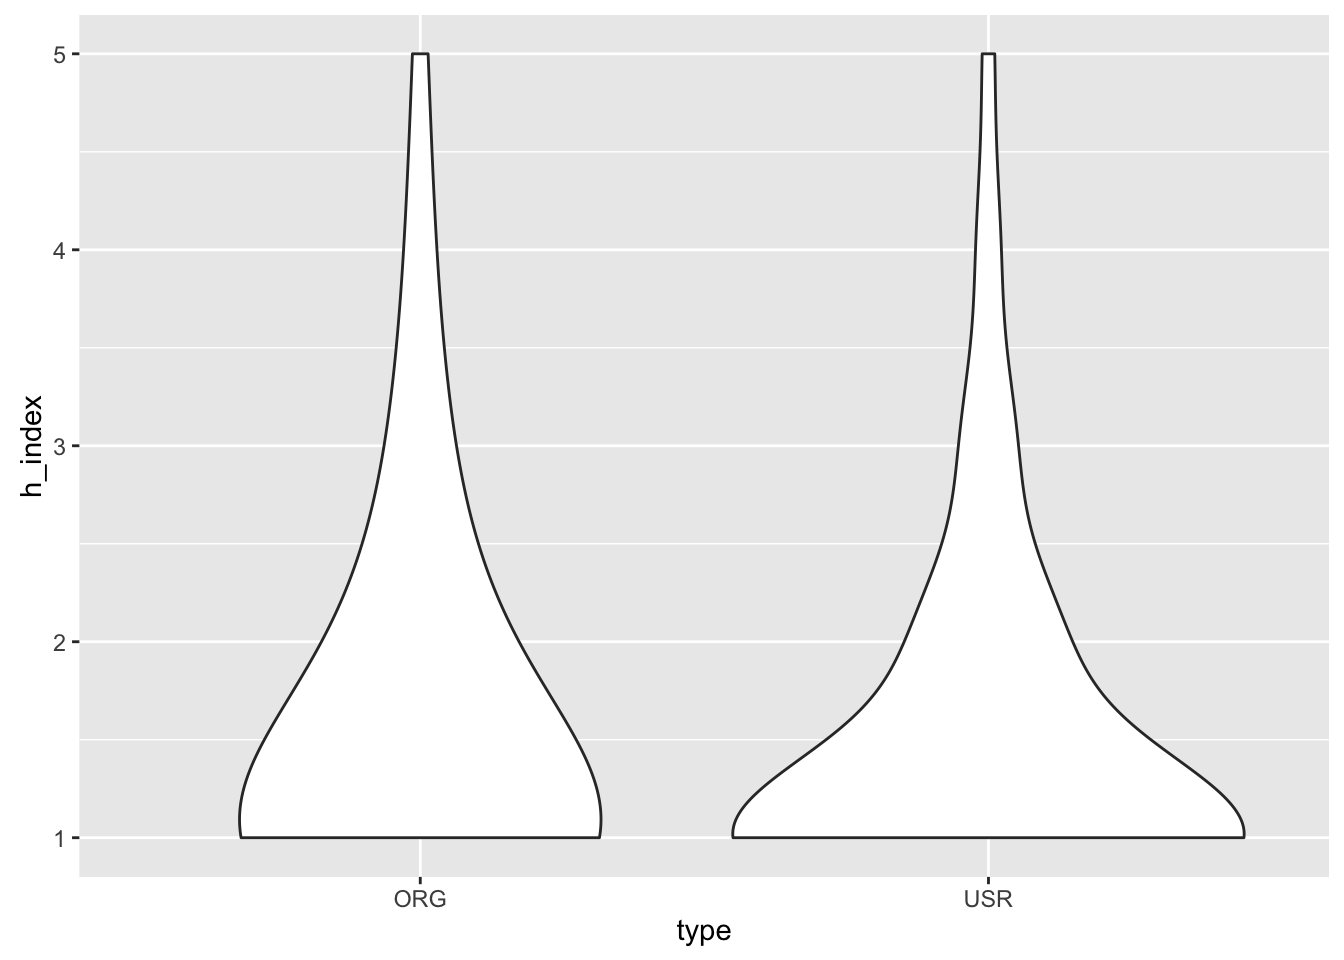
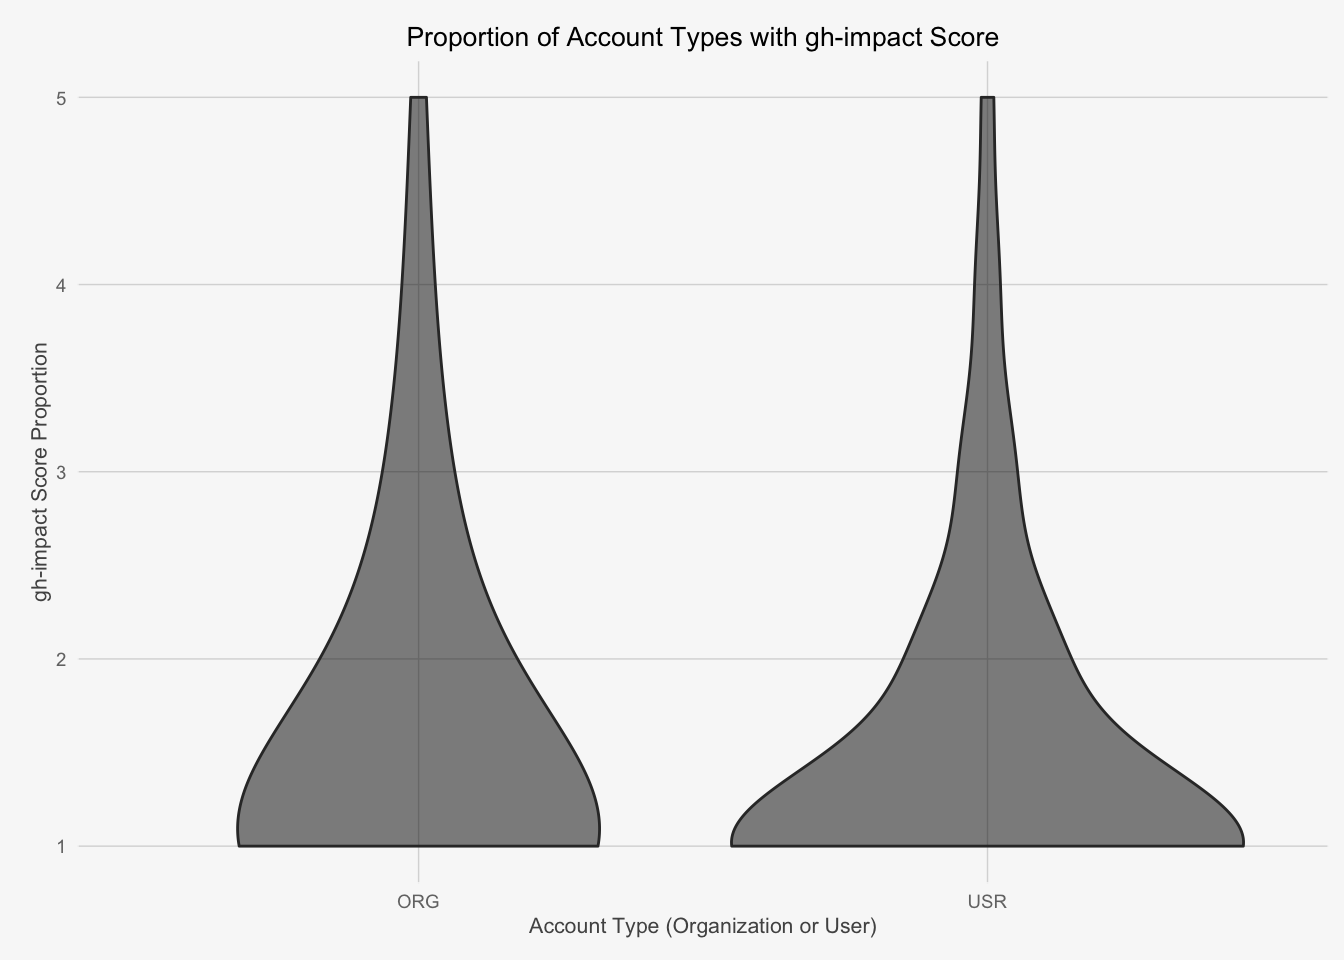
improved aesthetic of plots, added labels, some plots are log transformed

diff --git a/_js/90_percentiles.js b/_js/90_percentiles.js
@@ -1,5 +1,9 @@
+/*
+Ian Dennis Miller
+*/
+
 var percentiles = [
-    [
+    [ // individuals
         0.0000000,
         0.0000000,
         0.6885959,
@@ -17,7 +21,7 @@ var percentiles = [
         0.9986461,
         0.9989227
     ],
-    [
+    [ // organizations
         0.0000000,
         0.0000000,
         0.6473897,

diff --git a/Todo.md b/Todo.md
@@ -35,7 +35,7 @@
 - [x] display account type on report
 - [x] report percentiles corresponding to scores based on a table lookup
 - [x] arrange report as a table or something
-- [ ] percentiles for organizations
+- [x] percentiles for organizations
 - [ ] use github API to retrieve other details about the user
 
 ## Analysis
@@ -43,13 +43,14 @@
 - [x] density plot of scores to answer question: how do I compare?
 - [x] is there a substantial difference between individuals and organizations?
 - [x] who/which are the top users and organizations?
-- [ ] improve aesthetic for plots
-- [ ] ensure all plots have titles and axes are labeled
+- [x] improve aesthetic for plots
+- [x] ensure all plots have titles and axes are labeled
 - [ ] is there a relationship between gh-impact and number of followers?
 - [ ] is there any effect of project language upon gh-impact?
 - [ ] is gh-impact predictive of the popularity of an accounts's projects?
 - [ ] does organization size predict impact factor?
 - [ ] does quantity of projects predict impact factor?
+- [ ] improve pipeline for leaders, percentiles, test results
 
 ## Public Relations
 
@@ -60,4 +61,3 @@
 - [ ] contact mechanism: is Twitter good enough?
 - [ ] register alternate domain names?
 - [ ] submit to HCOMP 2016 before August 15 at 5pm PST
-

diff --git a/Readme.md b/Readme.md
@@ -5,6 +5,7 @@
 - [about](http://www.gh-impact.com/about/)
 - [analysis](http://www.gh-impact.com/analysis/)
 - [questions/answers](http://www.gh-impact.com/answers/)
+- [leader board](http://www.gh-impact.com/leaderboard/)
 - [blog](http://www.gh-impact.com/blog/)
 
 ## Makefile
@@ -16,4 +17,18 @@
 
 - github data dumps: http://ghtorrent.org
 - Internet Icon: https://openclipart.org/detail/220404/internet-globe-generic
-- https://github.com/ghiculescu/jekyll-table-of-contents
+- jquery.md5: https://github.com/placemarker/jQuery-MD5/
+- Russ Cam's jquery.randomize: http://stackoverflow.com/a/1533945/1146681
+- jekyll-table-of-contents: https://github.com/ghiculescu/jekyll-table-of-contents
+- minimaxir fte_theme: http://minimaxir.com/2015/02/ggplot-tutorial/
+
+## Key Technology
+
+- jquery
+- jekyll
+- github pages
+- R
+- postgres
+- Python
+- Flask-Diamond
+- SQLAlchemy

diff --git a/_pages/analysis.md b/_pages/analysis.md
@@ -17,7 +17,7 @@ First, be sure to read [these caveats regarding comparison](/answers/#are-gh-imp
 
 Nevertheless, it is easy to see where one score falls on the distribution.  Here is a histogram showing how many accounts have a certain number of stars.
 
-![Histogram](/media/density_plot_over_one-1.png)
+![Histogram](/media/density_plot-1.png)
 
 ### Percentiles
 
